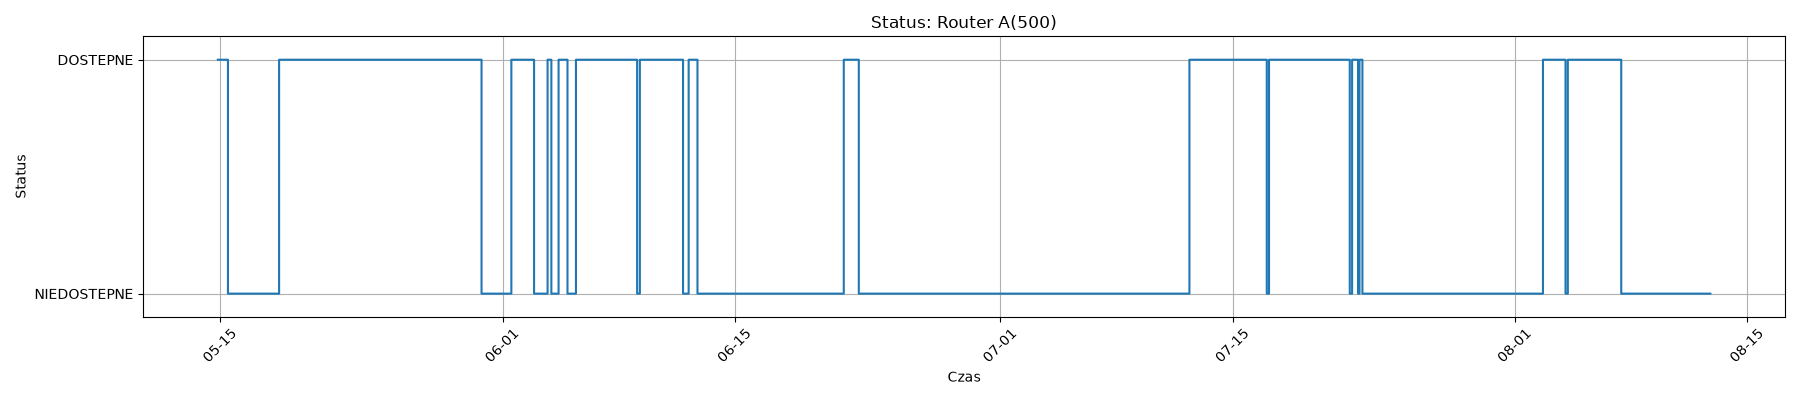
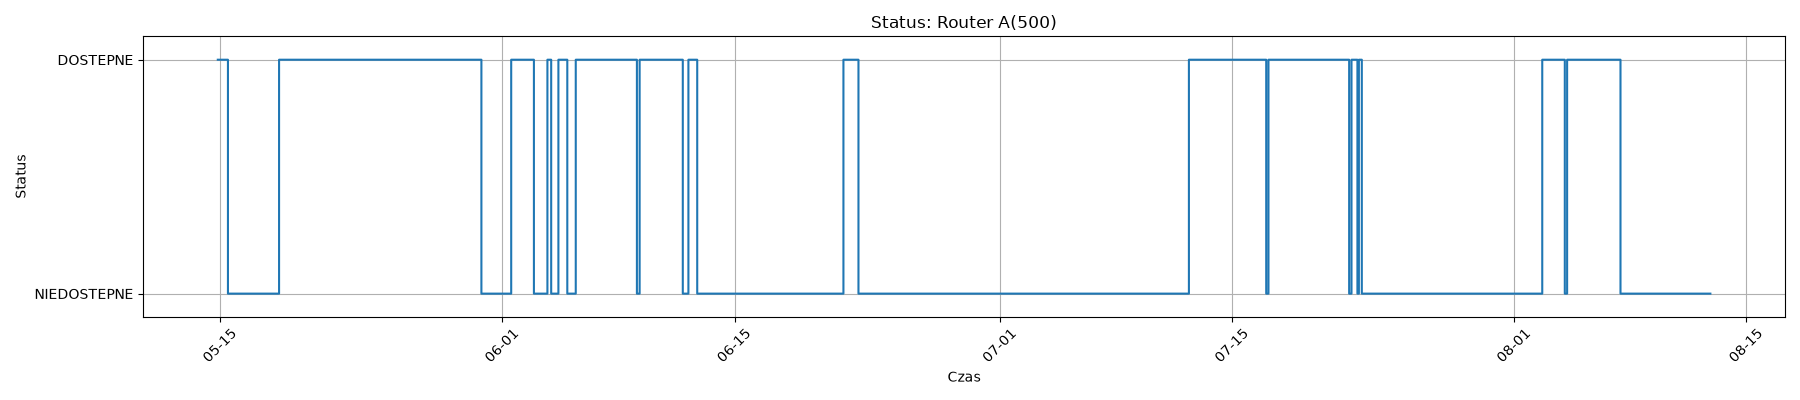
Automatyczna aktualizacja monitoringu

diff --git a/index.html b/index.html
@@ -24,14 +24,14 @@ img { border: 1px solid #ccc; border-radius: 8px; }
             
             <div class="card">
                 <div class="status red">NIEDOSTEPNE</div>
-                <div>Router A(500)</div>
-                <img src="chart_Router A(500).png" alt="Router A(500)" style="max-width:600px; margin-top:10px;">
+                <div>Router B(300)</div>
+                <img src="chart_Router B(300).png" alt="Router B(300)" style="max-width:600px; margin-top:10px;">
             </div>
             
             <div class="card">
                 <div class="status red">NIEDOSTEPNE</div>
-                <div>Router B(300)</div>
-                <img src="chart_Router B(300).png" alt="Router B(300)" style="max-width:600px; margin-top:10px;">
+                <div>Router A(500)</div>
+                <img src="chart_Router A(500).png" alt="Router A(500)" style="max-width:600px; margin-top:10px;">
             </div>
-            <p>Ostatnia zmiana: 2026-08-12 18:35:25</p>
+            <p>Ostatnia zmiana: 2026-08-12 19:44:16</p>
 </body></html>
